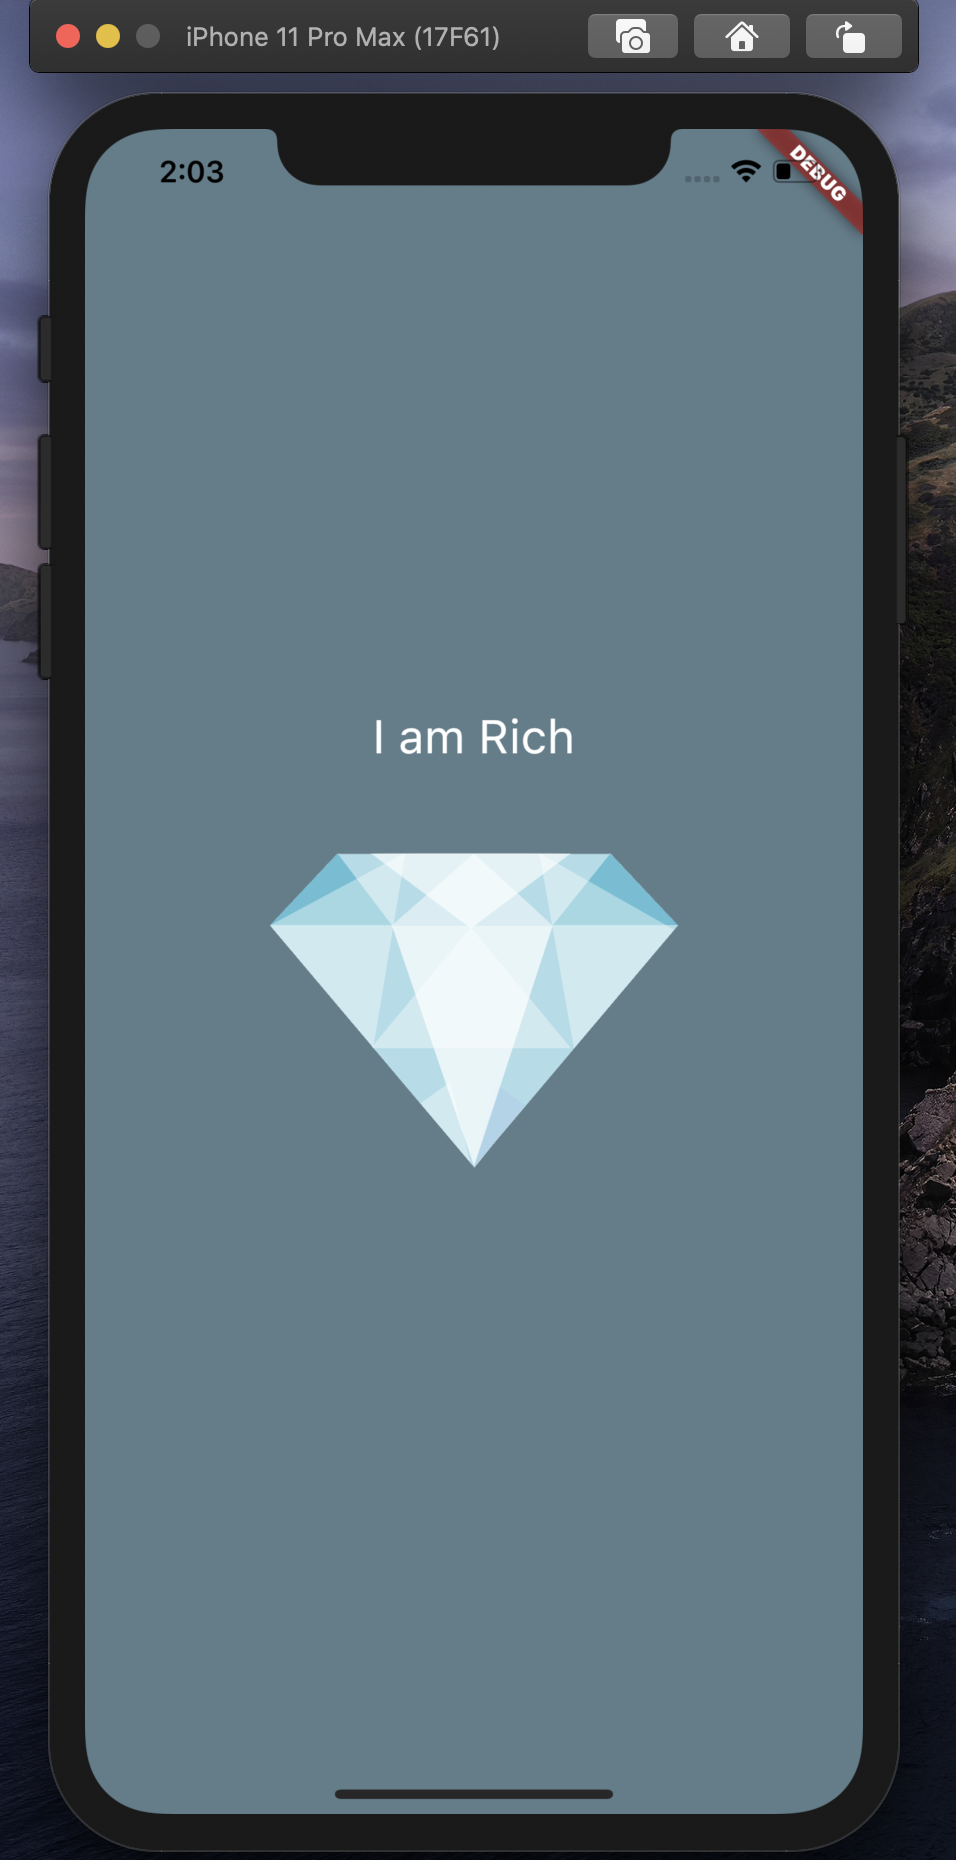
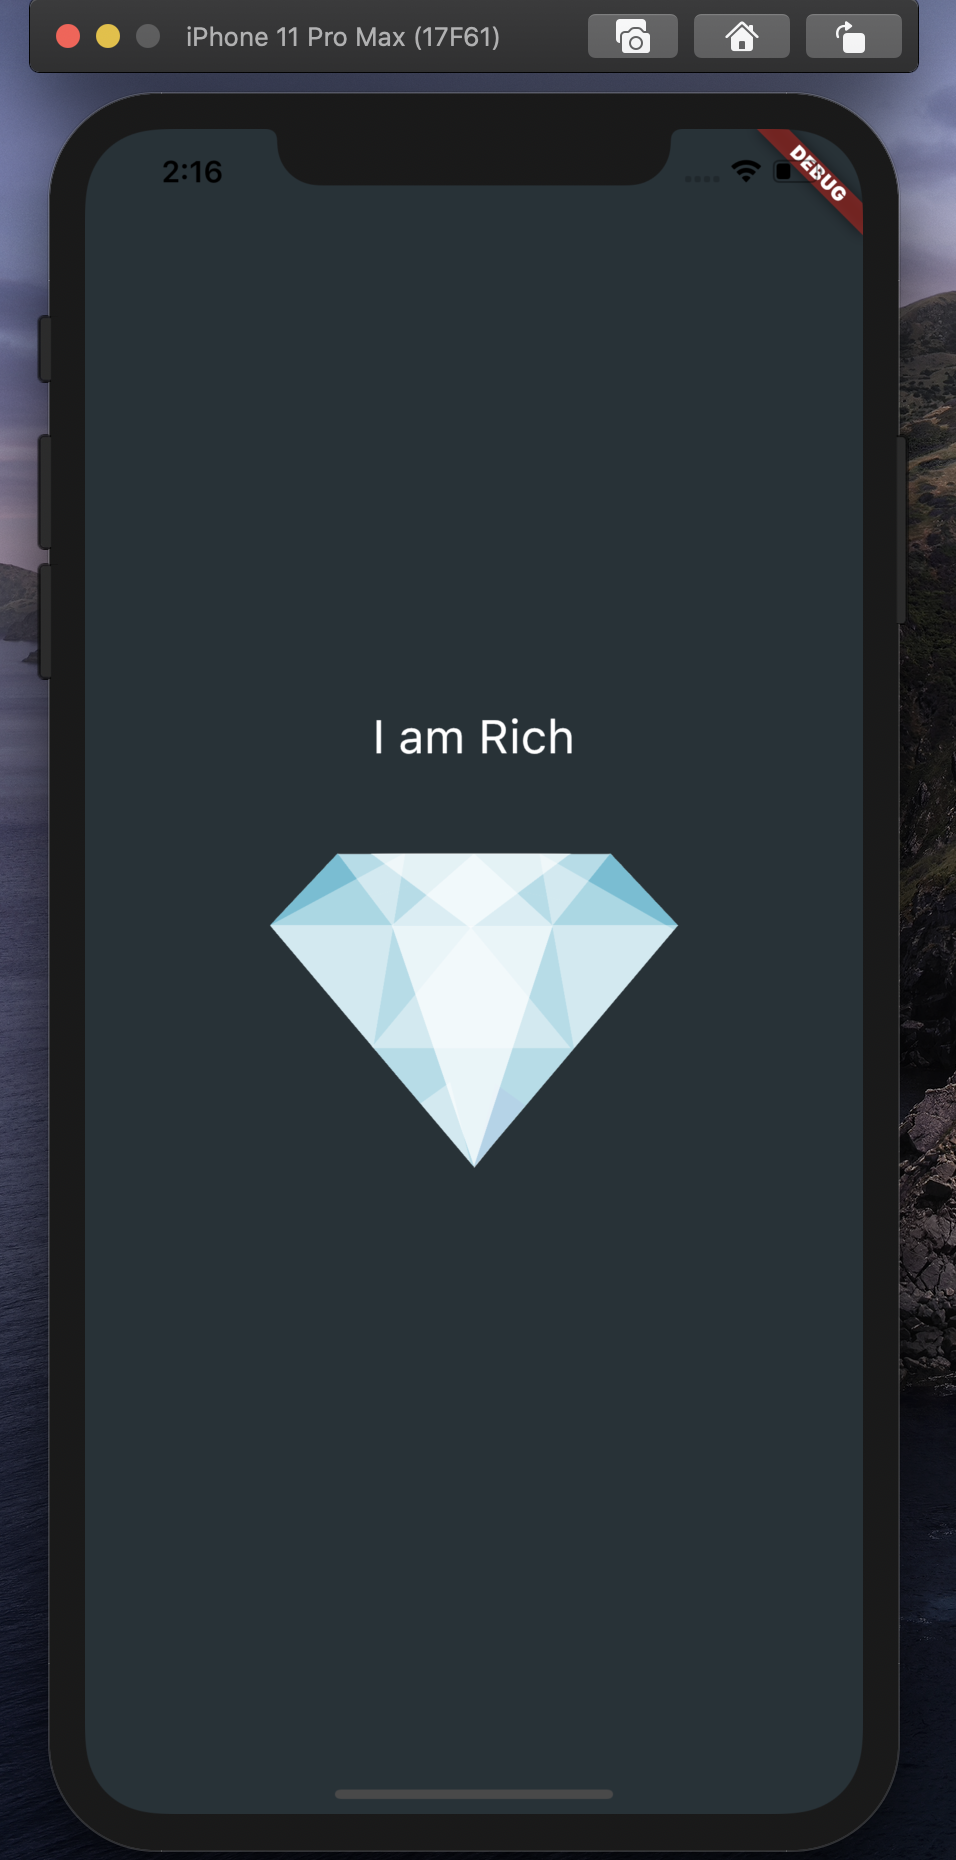
use new background color

diff --git a/iam_rich/lib/main.dart b/iam_rich/lib/main.dart
@@ -4,7 +4,7 @@ void main() {
   runApp(
     MaterialApp(
       home: Scaffold(
-        backgroundColor: Colors.blueGrey,
+        backgroundColor: Colors.blueGrey[900],
         body: Center(
           child: Column(
             mainAxisAlignment: MainAxisAlignment.center,
